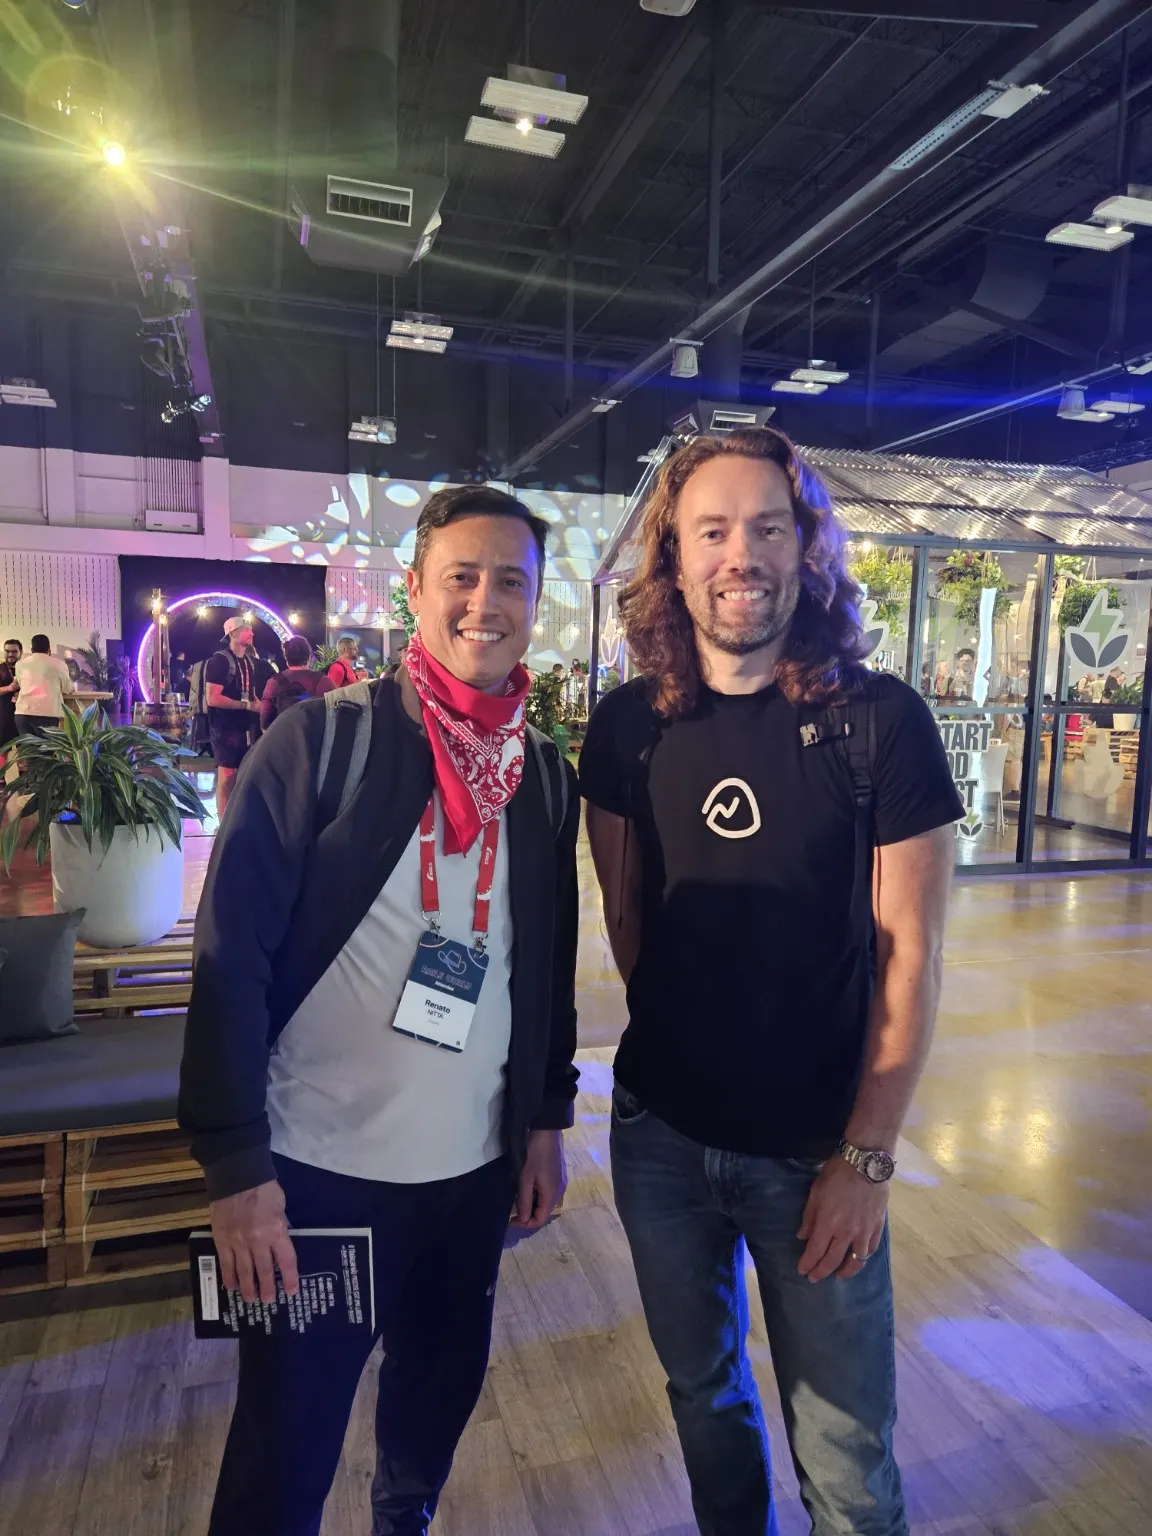
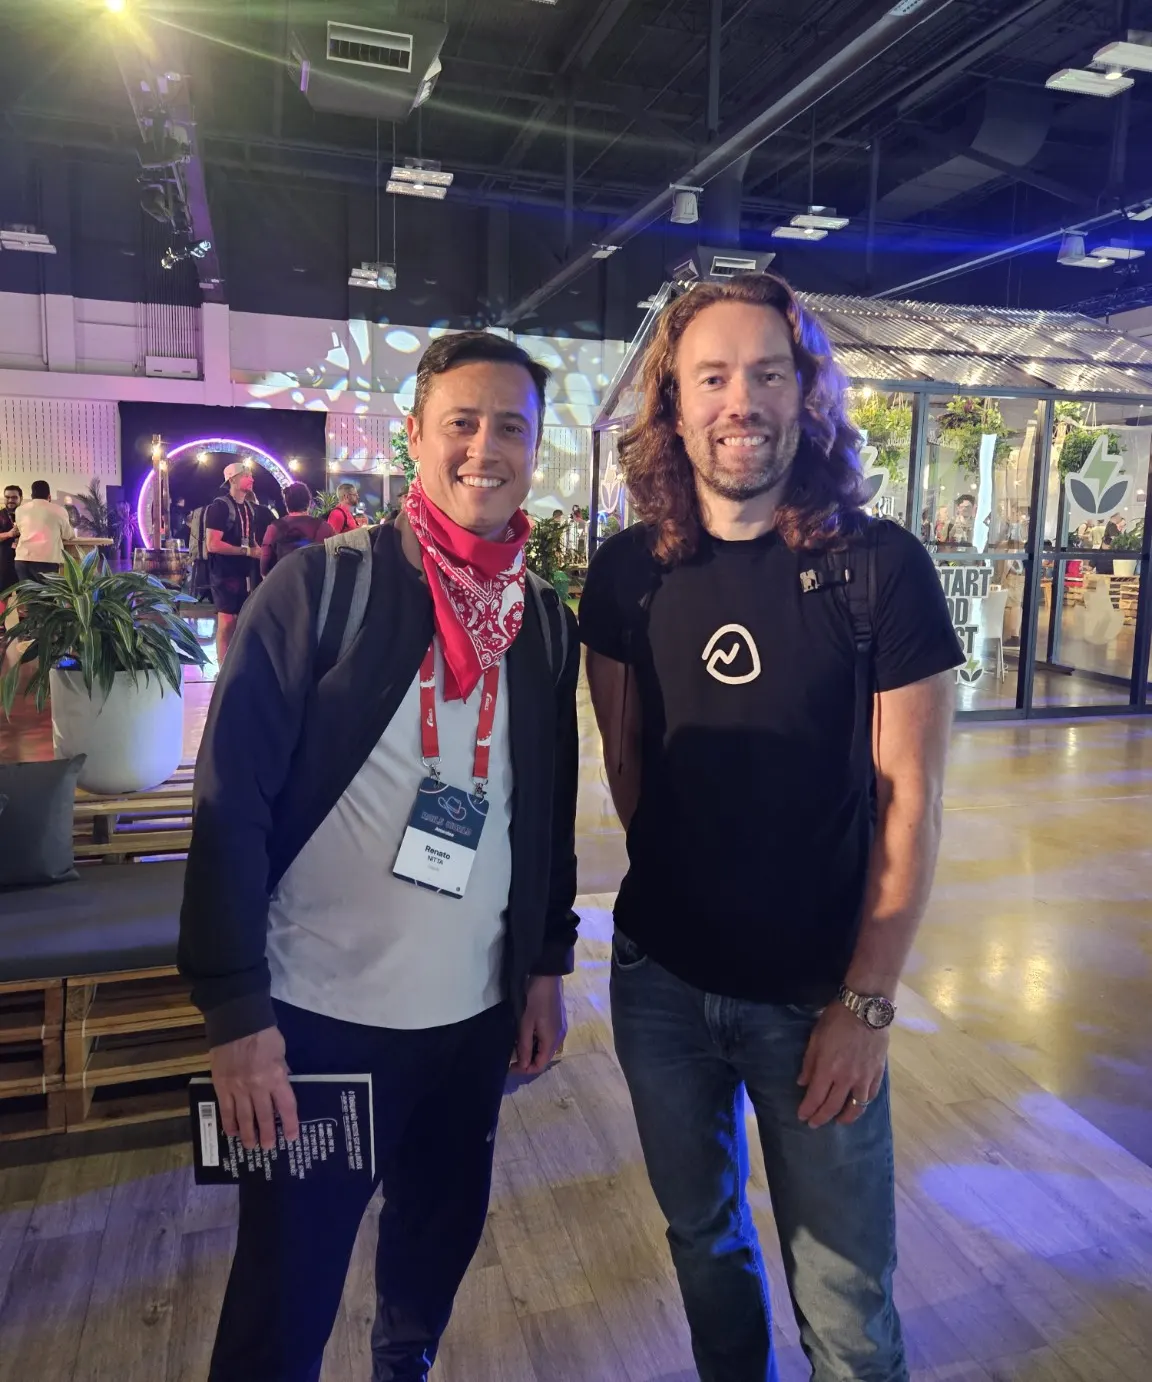
style: crop top of DHH photo on slide 8

diff --git a/css/style.css b/css/style.css
@@ -126,7 +126,7 @@ html, body { background: var(--bg); }
 .rw .asker { font-family: var(--mono); font-size: 30px; color: var(--muted); margin-top: 24px; }
 .rw .answer { font-size: 140px; font-weight: 600; letter-spacing: -0.03em; margin-top: 48px; line-height: 1; }
 .rw .answer-pt { font-size: 32px; color: var(--muted); margin-top: 14px; }
-.rw .photo { width: 100%; max-height: 860px; object-fit: cover; border-radius: 20px; box-shadow: 0 40px 100px rgba(0,0,0,.6); border: 1.5px solid var(--line); aspect-ratio: 3/4; }
+.rw .photo { width: 100%; max-height: 860px; object-fit: cover; border-radius: 20px; box-shadow: 0 40px 100px rgba(0,0,0,.6); border: 1.5px solid var(--line); aspect-ratio: auto; }
 .rw .cap { font-family: var(--mono); font-size: 20px; color: var(--muted); margin-top: 14px; }
 
 /* 09 — quem revisa */

diff --git a/index.html b/index.html
@@ -176,7 +176,7 @@
       <p class="answer grad fragment zoom-in" data-fragment-index="0">“Very soon.”</p>
     </div>
     <figure class="fragment fade-left" data-fragment-index="0" style="margin:0">
-      <img class="photo" src="assets/photos/railsworld-dhh-photo.webp" alt="Renato Nitta ao lado de DHH no saguão da Rails World 2026" width="1200" height="1600">
+      <img class="photo" src="assets/photos/railsworld-dhh-photo.webp" alt="Renato Nitta ao lado de DHH no saguão da Rails World 2026" width="1152" height="1382">
     </figure>
   </div>
   <aside class="notes">
